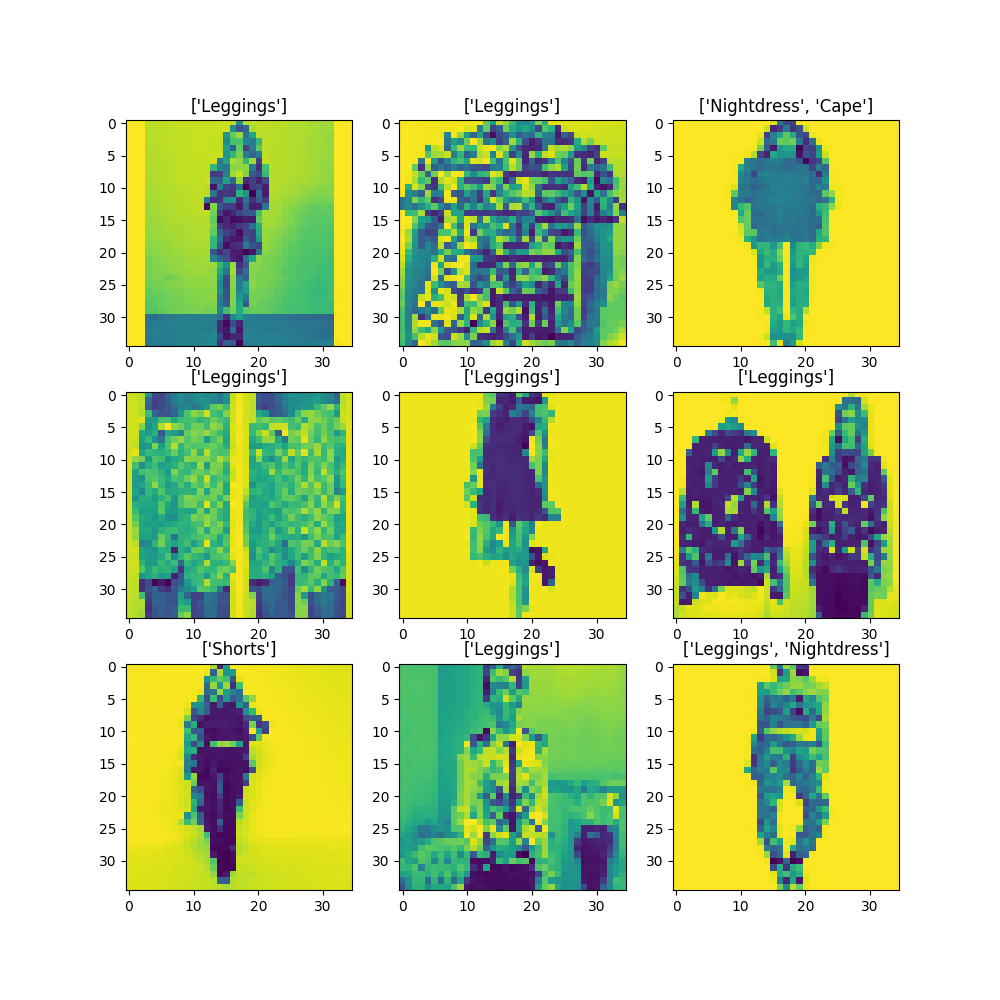
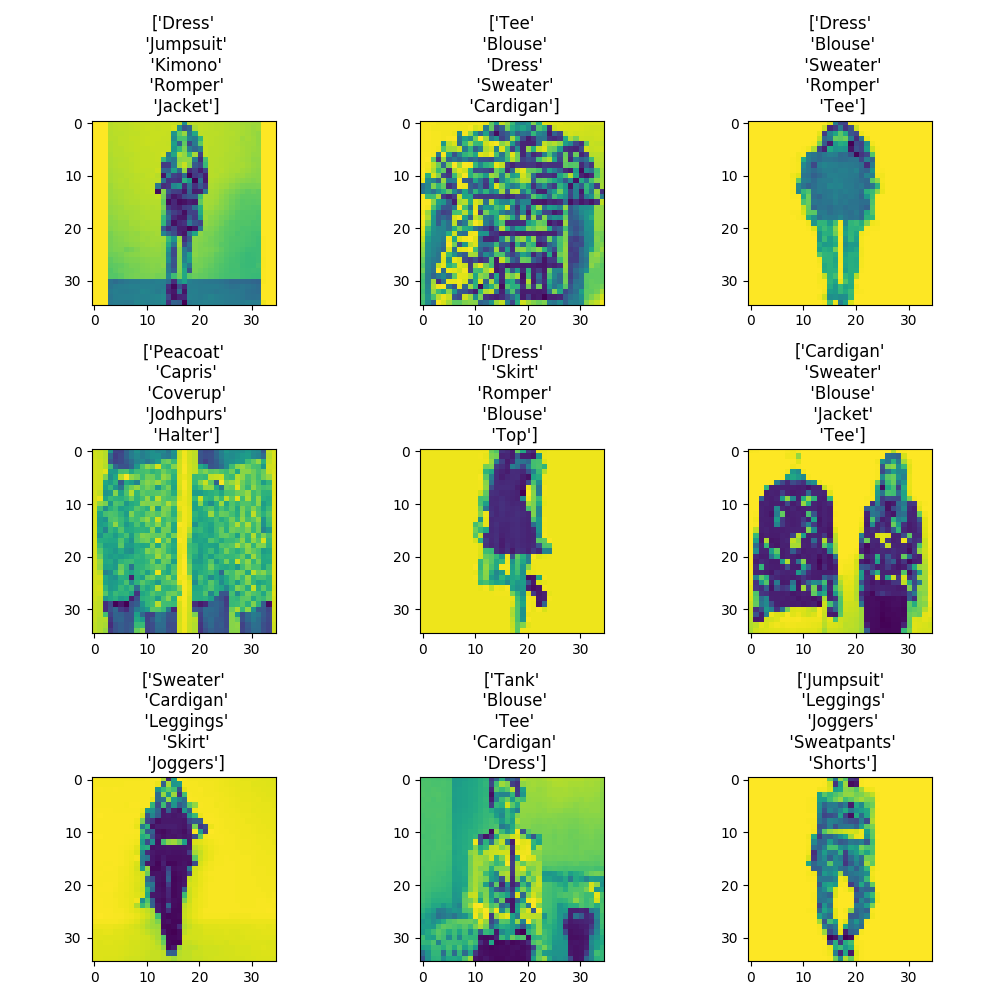
Updated image - it works - actual predictions from model.

diff --git a/model_trial_01/Official_prep_data.py b/model_trial_01/Official_prep_data.py
@@ -77,7 +77,7 @@ def inner_most(match, DATADIR, IMG_SIZE, Dataset):
       img_array = cv2.imread(path, cv2.IMREAD_GRAYSCALE)  # convert to grayscale array
       #img_array = img_array #/255.0 # Normalize the data
       img_array = cv2.resize(img_array, (IMG_SIZE, IMG_SIZE))
-      #print(img_array)
+      print(img_array.shape)
 
       Dataset.append([number, img_array]) # add to [#, [pixels]] array format
    except Exception as e:  # in the interest in keeping the output clean...
@@ -90,8 +90,8 @@ if __name__ == "__main__":
    # all variables
    IMG_SIZE = 35 # would use 100, but ran out of space on disk 
    pattern = re.compile("(img/.*/img_.*\.jpg) \s*(\w*)")
-   rootdir = '/u/jor25/Capstone/Category_images/img/list_category_img.txt'
-   DATADIR = '/u/jor25/Capstone/Category_images/'
+   rootdir = '../../../../../stash/kratos/deep-fashion/category-attribute/anno/list_category_img.txt'#/u/jor25/Capstone/Category_images/img/list_category_img.txt'
+   DATADIR = '../../../../../stash/kratos/deep-fashion/category-attribute/'#/u/jor25/Capstone/Category_images/'
    CATEGORIES = ["Anorak", "Blazer", "Blouse", "Bomber", "Button-Down",
    "Cardigan", "Flannel", "Halter", "Henley", "Hoodie",
    "Jacket", "Jersey", "Parka", "Peacoat", "Poncho",

diff --git a/model_trial_01/Evaluate.py b/model_trial_01/Evaluate.py
@@ -12,6 +12,7 @@ def plot_results(modded_images):
    w=35
    h=35
    fig=plt.figure(figsize=(10, 10))
+   #fig.tight_layout()
    columns = 3
    rows = 3
    for i in range(1, columns*rows +1):
@@ -20,8 +21,13 @@ def plot_results(modded_images):
       img2 = img.reshape((h, w))
       sub_plots = fig.add_subplot(rows, columns, i)
       sub_titles = modded_images[i-1][1]#[0]  # Predictions = titles
-      sub_plots.title.set_text(str(sub_titles))
+      #print(sub_titles)
+      sub_titles = str(sub_titles).replace(",","\n")
+      #print(sub_titles)
+      sub_plots.title.set_text(sub_titles)#str(sub_titles))
       plt.imshow(img2)
+
+   fig.tight_layout()
    plt.show()
    result_title = "good_stuff.png"
    plt.savefig(result_title)
@@ -33,6 +39,9 @@ def prepare(filepath):
    IMG_SIZE = 35  # 35 x 35 image
    img_array = cv2.imread(filepath, cv2.IMREAD_GRAYSCALE)
    new_array = cv2.resize(img_array, (IMG_SIZE, IMG_SIZE))
+   #print(new_array.shape)
+   #new_array = cv2.cvtColor(new_array, cv2.COLOR_BGR2RGB)
+   #print(new_array.shape)
    return new_array.reshape(-1, IMG_SIZE, IMG_SIZE, 1)
 
 
